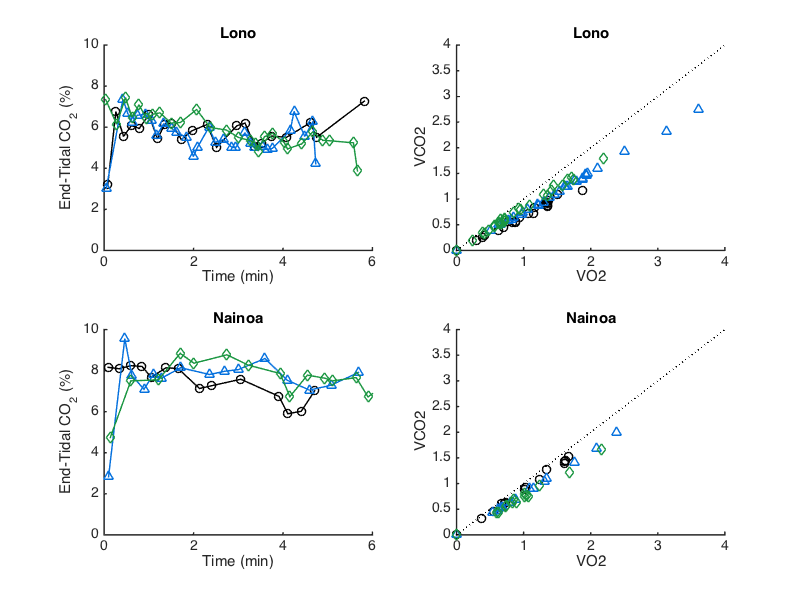
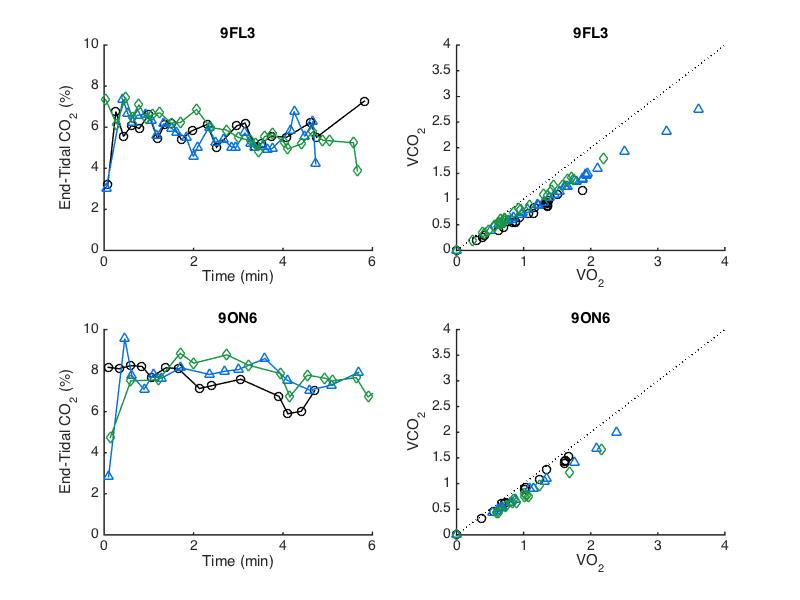
Plot save label woo

diff --git a/VO2curves.m b/VO2curves.m
@@ -53,9 +53,9 @@ for i = 1:size(filenames,1)
     figure(5); hold on
     % plot recovery end-tidal CO2
     if isempty(strfind(filenames{i},'Lono')) == 0
-        subplot(221); hold on; title('Lono')
+        subplot(221); hold on; title('9FL3')
     else if isempty(strfind(filenames{i},'Nainoa')) == 0
-            subplot(223); hold on; title('Nainoa')
+            subplot(223); hold on; title('9ON6')
         end
     end
     if isempty(strfind(filenames{i},'C')) == 0
@@ -248,10 +248,10 @@ for i = 1:size(filenames,1)
     figure(5);
     % plot VO2 vs VCO2
     if isempty(strfind(filenames{i},'Lono')) == 0
-        subplot(222); hold on; title('Lono')
+        subplot(222); hold on; title('9FL3')
         plot([0 4],[0 4],'k:')
     else if isempty(strfind(filenames{i},'Nainoa')) == 0
-            subplot(224); hold on; title('Nainoa')
+            subplot(224); hold on; title('9ON6')
             plot([0 4],[0 4],'k:')
         end
     end
@@ -290,8 +290,8 @@ for i = 1:size(filenames,1)
 %     end
 %     
 end
-subplot(222); xlabel('VO2'); ylabel('VCO2')
-subplot(224); xlabel('VO2'); ylabel('VCO2')
+subplot(222); xlabel('VO_2'); ylabel('VCO_2')
+subplot(224); xlabel('VO_2'); ylabel('VCO_2')
 
 cd /Users/julievanderhoop/Documents/MATLAB/DQ/DQ2013/AnalysisFigs
 print('Boat_ETCO2','-dpng','-r100')
